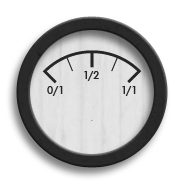
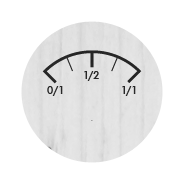
Interface Mater Update

Changed region(s): [[0.0541, 0.0811, 0.9189, 0.973]]

diff --git a/public/javascripts/marblerun/meter.js b/public/javascripts/marblerun/meter.js
@@ -5,16 +5,22 @@ var Meter = Class.create(DisplayObject, {
 
     this.canvas = canvas;
     this.context = canvas.getContext("2d");
-
-    this.setSize();
   },
 
   setSize: function() {
-    
+    this.canvas.width = this.canvas.height = 185;
   },
 
   draw: function() {
-    
+
+    this.setSize();
+
+    this.context.fillStyle = Pattern.meterBackground;
+    this.context.fillRect(0, 0, 185, 185);
+
+    this.context.fillStyle = Pattern.meterForeground;
+    this.context.fillRect(0, 0, 185, 185);
+
   }
 
 });

diff --git a/public/stylesheets/master.css b/public/stylesheets/master.css
@@ -45,6 +45,13 @@ td#sidebar a#modeSwitch.build {
 	background-position: 0 0;
 }
 
+td#sidebar div#brickMeterHolder {
+	width: 185px;
+	height: 185px;
+	margin: auto;
+	overflow: hidden;
+}
+
 td#content {
 	height: 100%;
 	background: url(../images/background-yellow.png) repeat;
